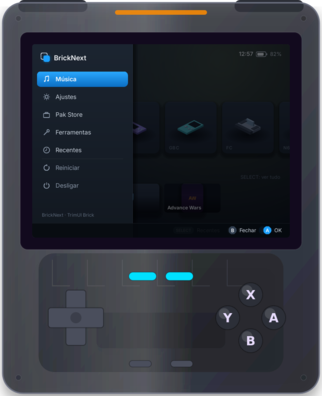
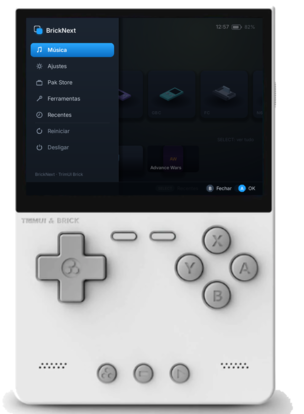
Front page: the Brick's own photo as the frame

diff --git a/README.md b/README.md
@@ -108,8 +108,8 @@ included). Later versions come from **Tools -> BrickNext Update**, on Wi-Fi, wit
 BrickNext é construído sobre o **NextUI**, da **LoveRetro**
 (<https://github.com/LoveRetro/NextUI>), que por sua vez vem do **MinUI**, de Shaun Inman. O visual
 vem do **AnberNext** (<https://github.com/retrotiv/AnberNext>). Os emuladores e cores pertencem aos
-seus autores. Veja [NOTICE](NOTICE). O aparelho desta página é um desenho nosso, não uma foto da
-TrimUI.
+seus autores. Veja [NOTICE](NOTICE). Foto do aparelho: TrimUI. O BrickNext é um projeto da
+comunidade, sem ligação com a TrimUI.
 
 Licença **PolyForm Noncommercial 1.0.0** (veja [LICENSE](LICENSE)): projeto **não comercial**, com os
 créditos preservados.
